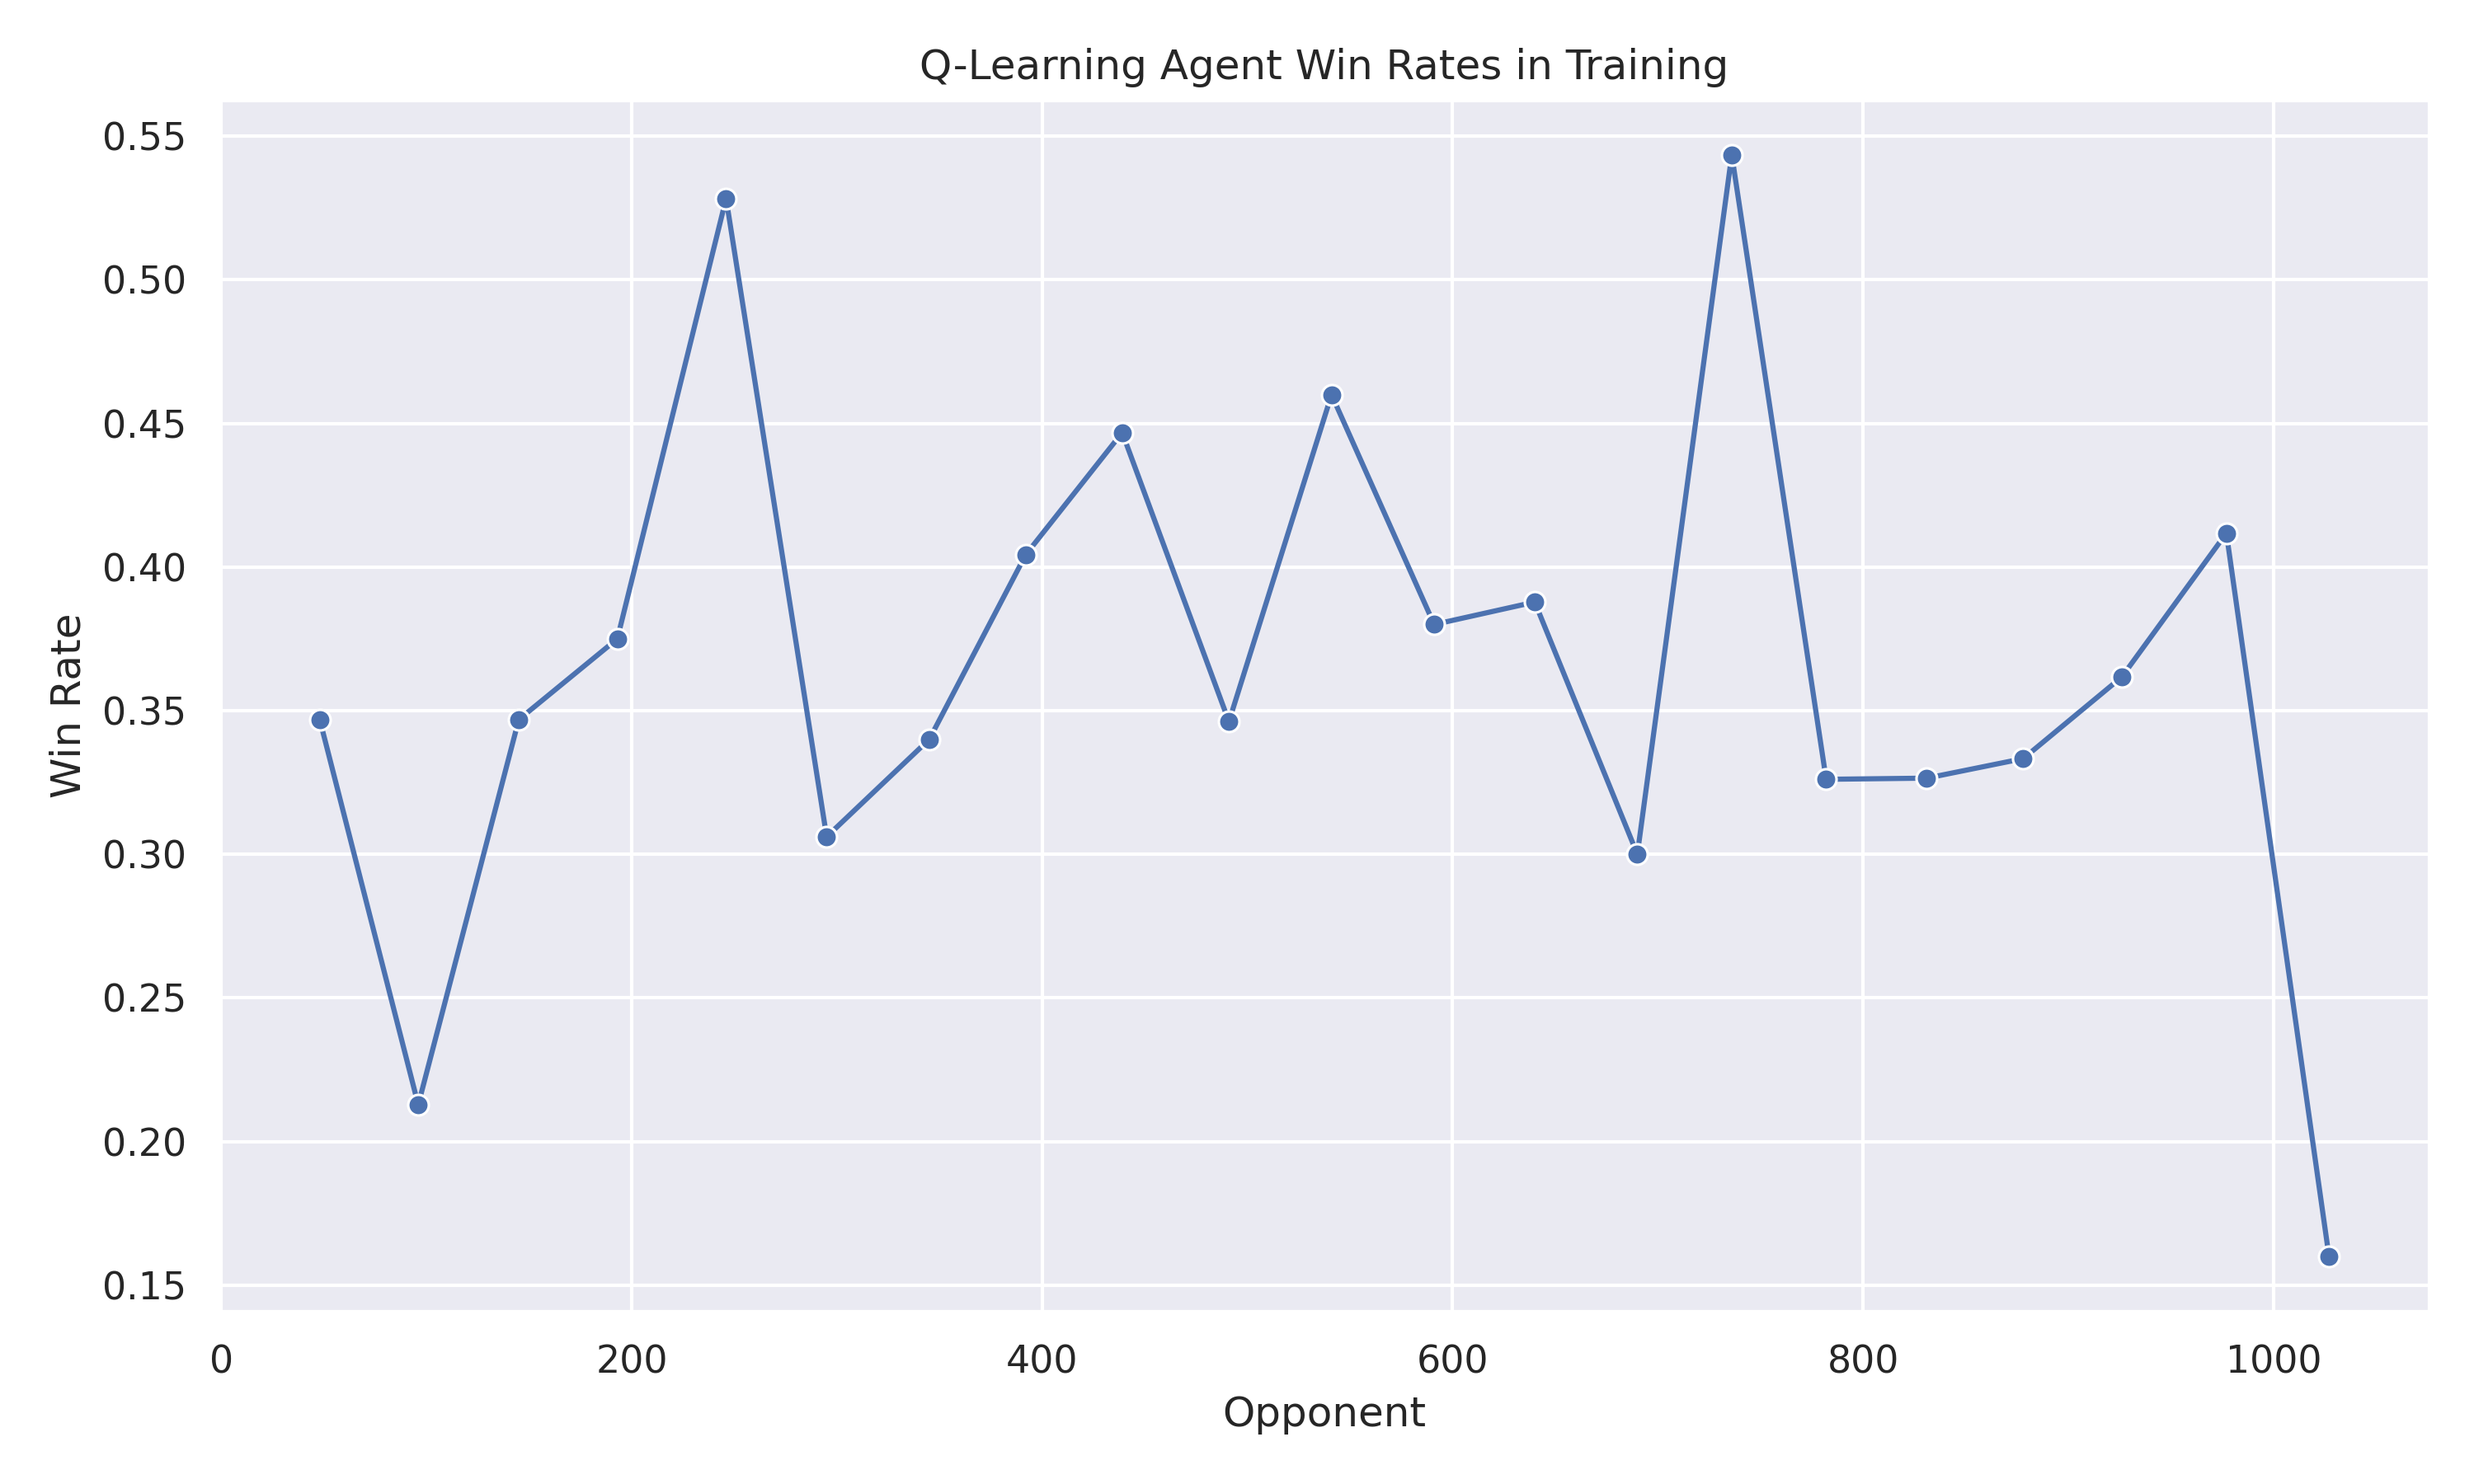
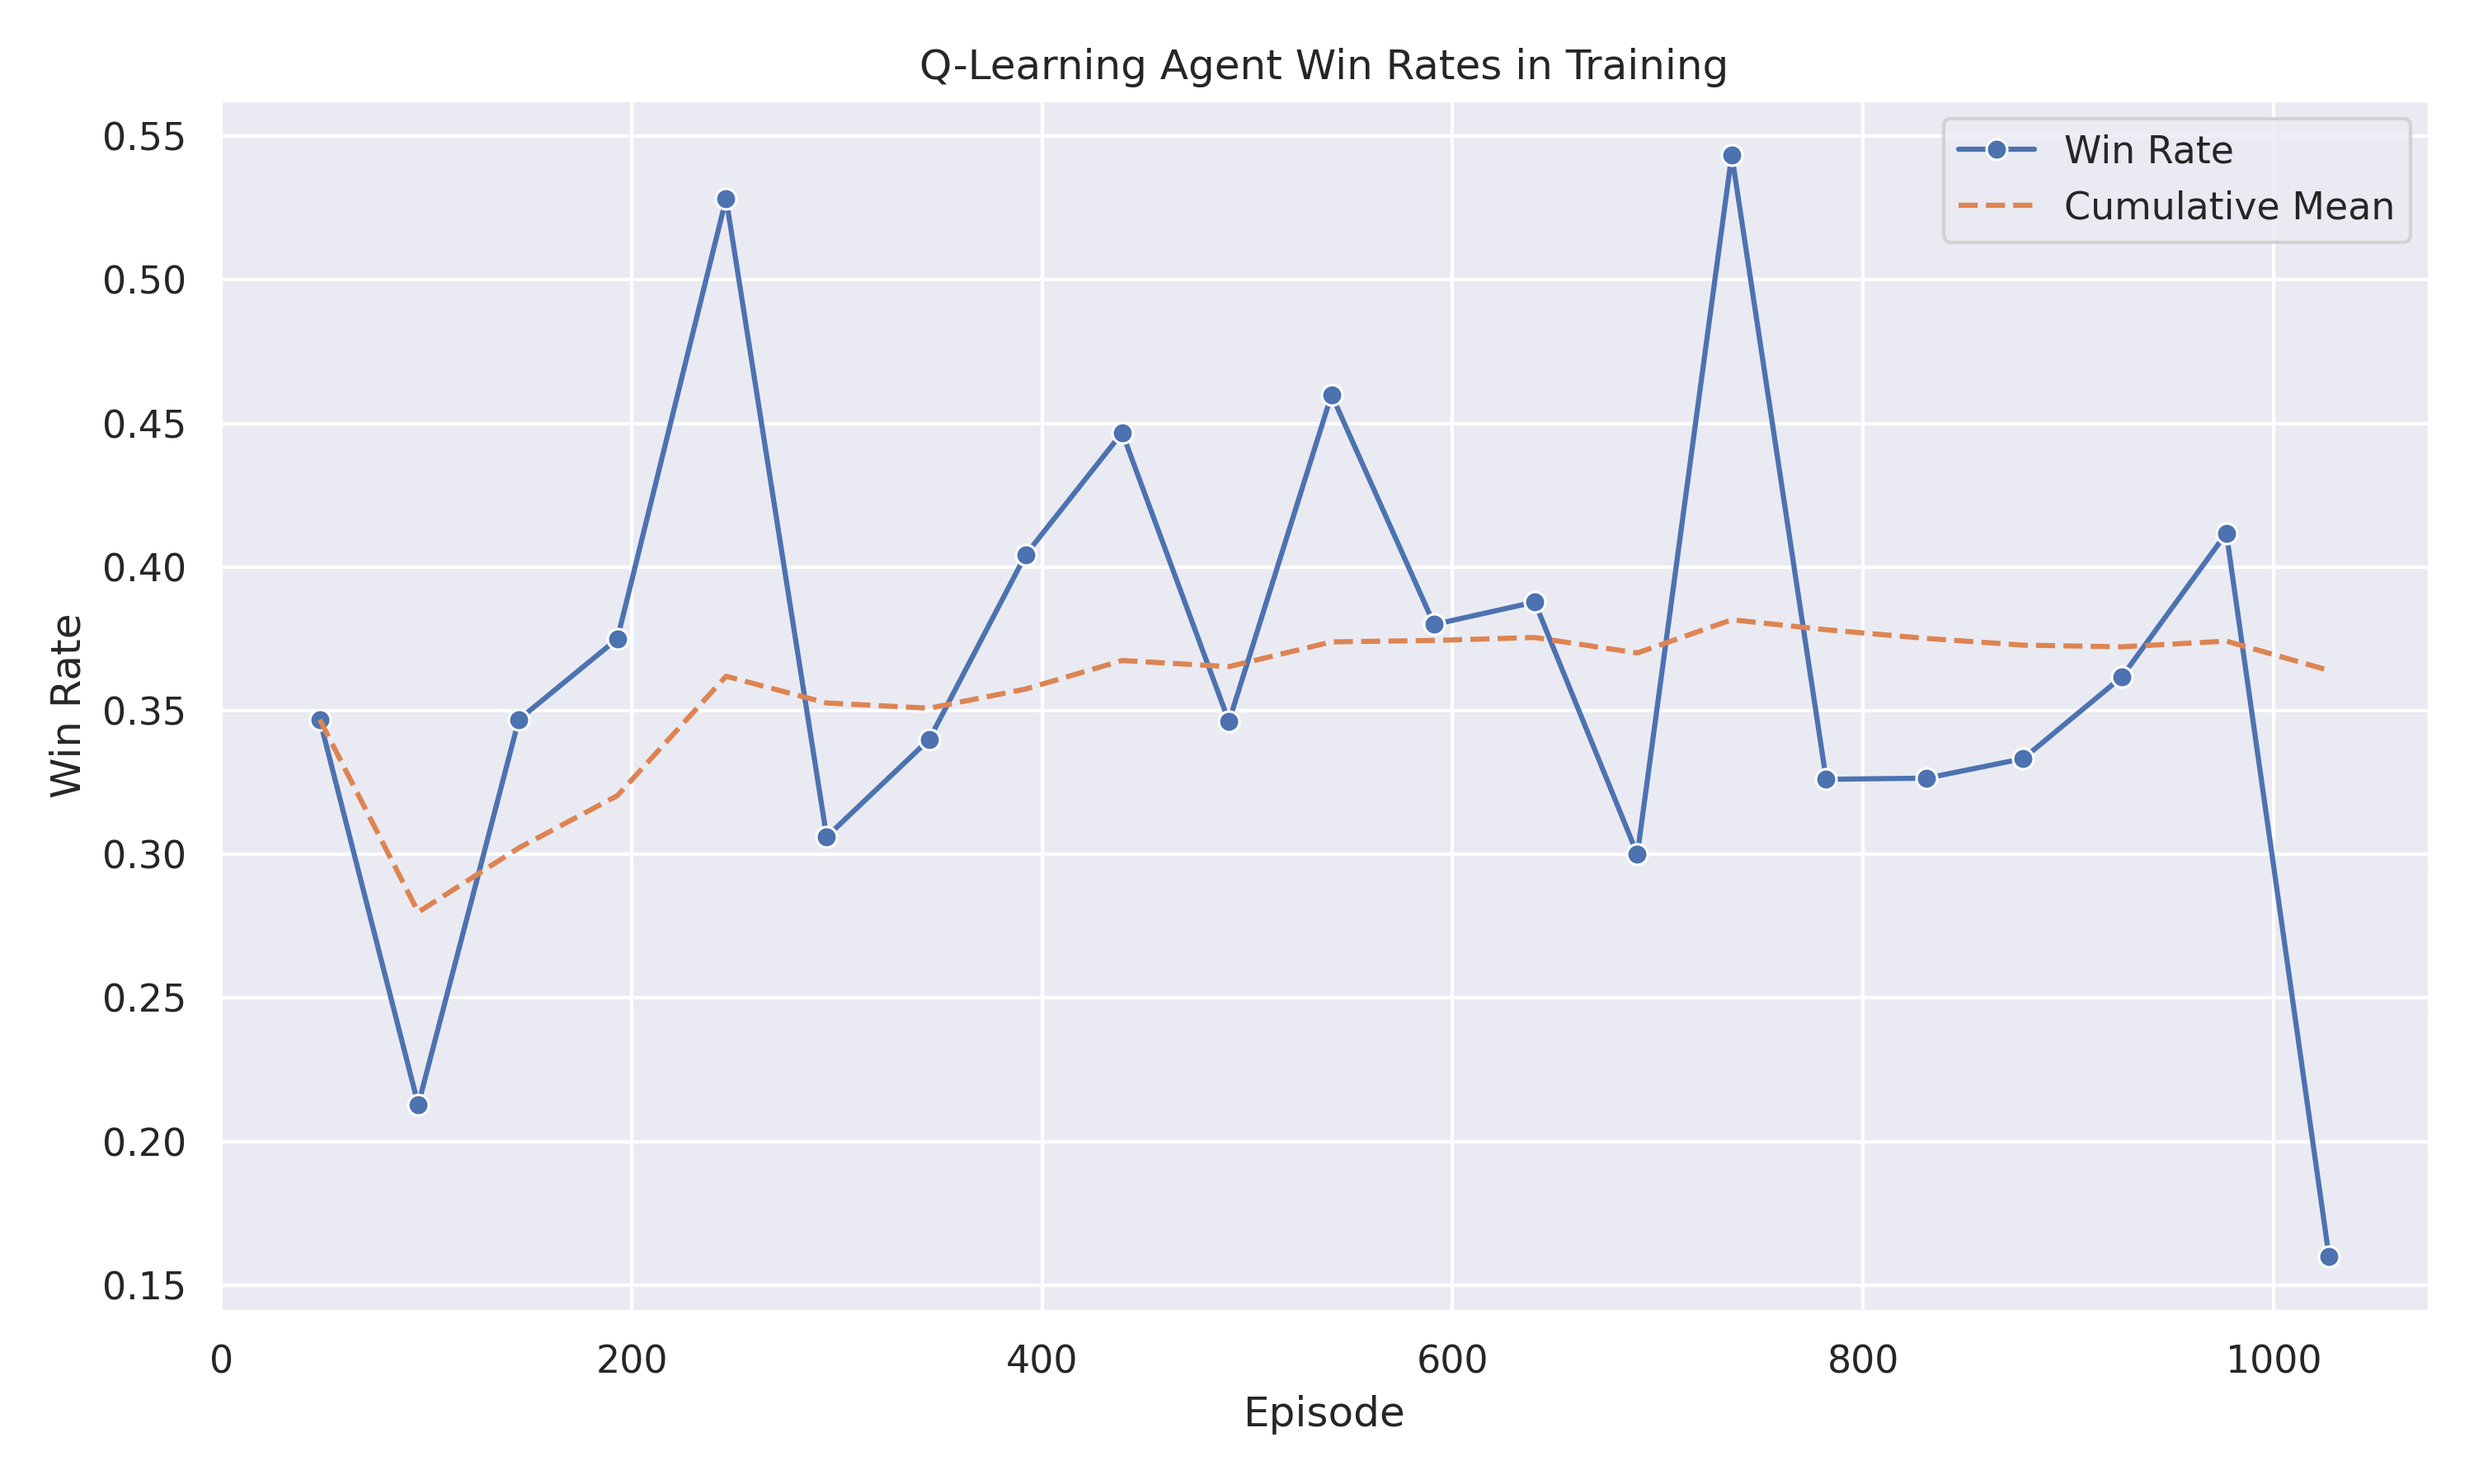
fix manual test, add cum mean for winrate plot

Changed region(s): [[0.775, 0.0933, 0.961, 0.1556], [0.496, 0.9333, 0.589, 0.9644], [0.155, 0.5911, 0.186, 0.6222]]

diff --git a/cards/plot_test.py b/cards/plot_test.py
@@ -49,6 +49,8 @@ def plot_winrates(csv_file="card_winrate.csv"):
         return False
 
     df = pd.read_csv(csv_file)
+    df = df.sort_values(by="Episode")
+    df['cumulative_mean'] = df['Win Rate'].expanding().mean().reset_index(drop=True)
 
     sns.set_theme(style="darkgrid")
     plt.figure(figsize=(10, 6))
@@ -57,11 +59,20 @@ def plot_winrates(csv_file="card_winrate.csv"):
         x="Episode",
         y="Win Rate",
         data=df,
-        marker='o'
+        marker='o',
+        label="Win Rate"
+    )
+    
+    sns.lineplot(
+        x="Episode",
+        y="cumulative_mean",
+        data=df,
+        linestyle='--',
+        label="Cumulative Mean"
     )
     
     plt.ylabel('Win Rate')
-    plt.xlabel('Opponent')
+    plt.xlabel('Episode')
     plt.title('Q-Learning Agent Win Rates in Training')
     
     plt.tight_layout()

diff --git a/cards/tests/card_test_manual.py b/cards/tests/card_test_manual.py
@@ -15,7 +15,7 @@ def main():
     output_dim = 22  # env.action_space.n from card_env
     policy_net = DQN(output_dim).to(device)
     try:
-        policy_net.load_state_dict(torch.load("versions/mlps/card.dqn.pt", map_location=device))
+        policy_net.load_state_dict(torch.load("versions/mlps/best.pt", map_location=device))
         policy_net.eval()
         print(f"Trained model loaded successfully on {device}.")
     except Exception as e:

diff --git a/cards/ideas.md b/cards/ideas.md
@@ -1,5 +1,5 @@
 # Architecture
-* Use attention for hands and cards 
+* [X] Use attention for hands and cards 
     * Already tried, but no success. However, I strongly believe that with right modelling of domain knowledge this should provide improvements to DQN performance (although state is simple)
 * Use LSTM for summarizing previous game states to add notion of the game progress/history to the model
 
@@ -8,6 +8,9 @@
     * Initial opponent = random agent, then switch to self-play with soft update or use pretrained best model
 * Use prioritzed replay buffer
 * [X] Use target network as an opponent - simplify the training process 
+* Play with hyperparameters
+    * Start with lower epsilon (0.35) and decay it slower over larger num of episodes
+    * Adapt loss/learning rates to lower (see DRON paper)
 
 # Env
 * Make rewards less sparse
